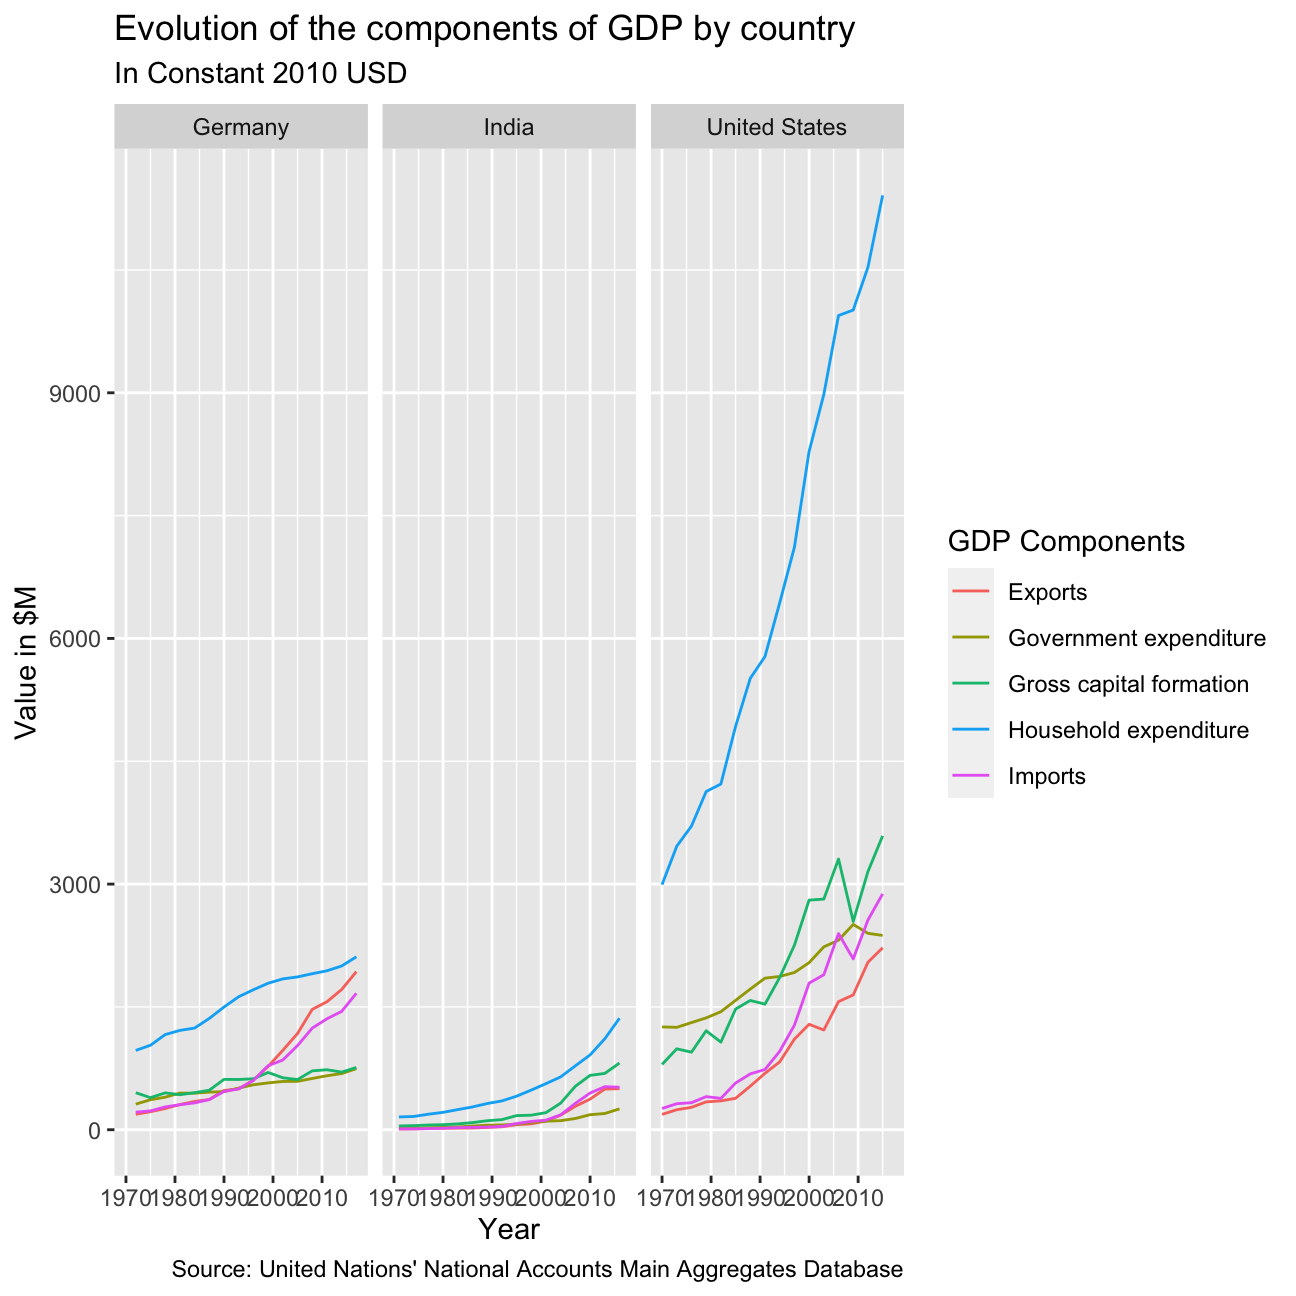
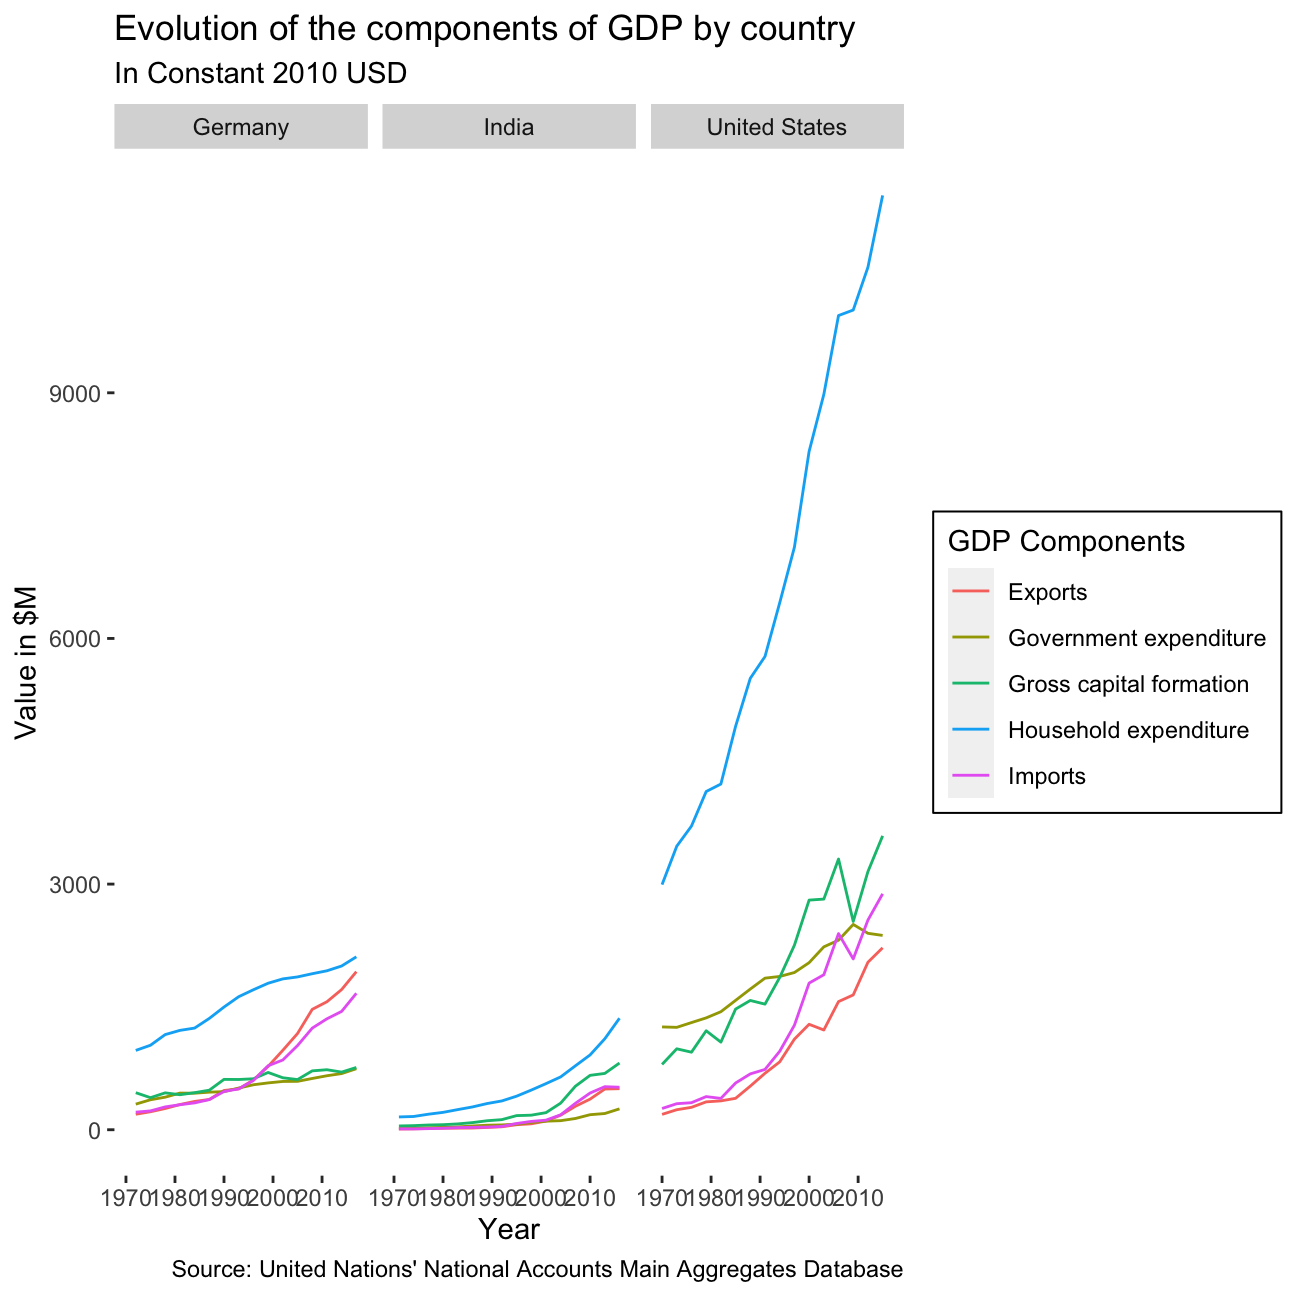
GDP Rmd

diff --git a/content/works/gdp.html b/content/works/gdp.html
@@ -94,6 +94,13 @@ ggplot(tidy_GDP_for_graph1,
     color = &quot;GDP Components&quot;,
     x = &quot;Year&quot;,
     y = &quot;Value in $M&quot;
+  ) + theme(
+    panel.background = element_rect(fill=&#39;transparent&#39;), #transparent panel bg
+    plot.background = element_rect(fill=&#39;transparent&#39;, color=NA), #transparent plot bg
+    panel.grid.major = element_blank(), #remove major gridlines
+    panel.grid.minor = element_blank(), #remove minor gridlines
+    legend.background = element_rect(fill=&#39;transparent&#39;), #transparent legend bg
+    legend.box.background = element_rect(fill=&#39;transparent&#39;) #transparent legend panel
   )</code></pre>
 <p><img src="/works/gdp_files/figure-html/gdp1_code-1.png" width="648" style="display: block; margin: auto;" /></p>
 <pre class="r"><code>## Note from Kat, the data looks correct, but i cant get the line to work. 
@@ -183,7 +190,14 @@ wider_gdp %&gt;%
                  &#39;Household Expenditure&#39;,
                  &#39;Net Exports&#39;
                  )
-      )</code></pre>
+      ) + theme(
+    panel.background = element_rect(fill=&#39;transparent&#39;), #transparent panel bg
+    plot.background = element_rect(fill=&#39;transparent&#39;, color=NA), #transparent plot bg
+    panel.grid.major = element_blank(), #remove major gridlines
+    panel.grid.minor = element_blank(), #remove minor gridlines
+    legend.background = element_rect(fill=&#39;transparent&#39;), #transparent legend bg
+    legend.box.background = element_rect(fill=&#39;transparent&#39;) #transparent legend panel
+  )</code></pre>
 <p><img src="/works/gdp_files/figure-html/gdp2,%20-1.png" width="100%" style="display: block; margin: auto;" /></p>
 <blockquote>
 <p>For all three countries household expenditure is the biggest contributor to the GDP, followed by gross capital formation, government expenditure, and finally Net Exports.</p>
@@ -252,6 +266,13 @@ wider_gdp %&gt;%
                  &#39;Household Expenditure&#39;,
                  &#39;Net Exports&#39;
                  )
-      )</code></pre>
+      ) + theme(
+    panel.background = element_rect(fill=&#39;transparent&#39;), #transparent panel bg
+    plot.background = element_rect(fill=&#39;transparent&#39;, color=NA), #transparent plot bg
+    panel.grid.major = element_blank(), #remove major gridlines
+    panel.grid.minor = element_blank(), #remove minor gridlines
+    legend.background = element_rect(fill=&#39;transparent&#39;), #transparent legend bg
+    legend.box.background = element_rect(fill=&#39;transparent&#39;) #transparent legend panel
+  )</code></pre>
 <p><img src="/works/gdp_files/figure-html/unnamed-chunk-2-1.png" width="648" style="display: block; margin: auto;" /></p>
 </div>
